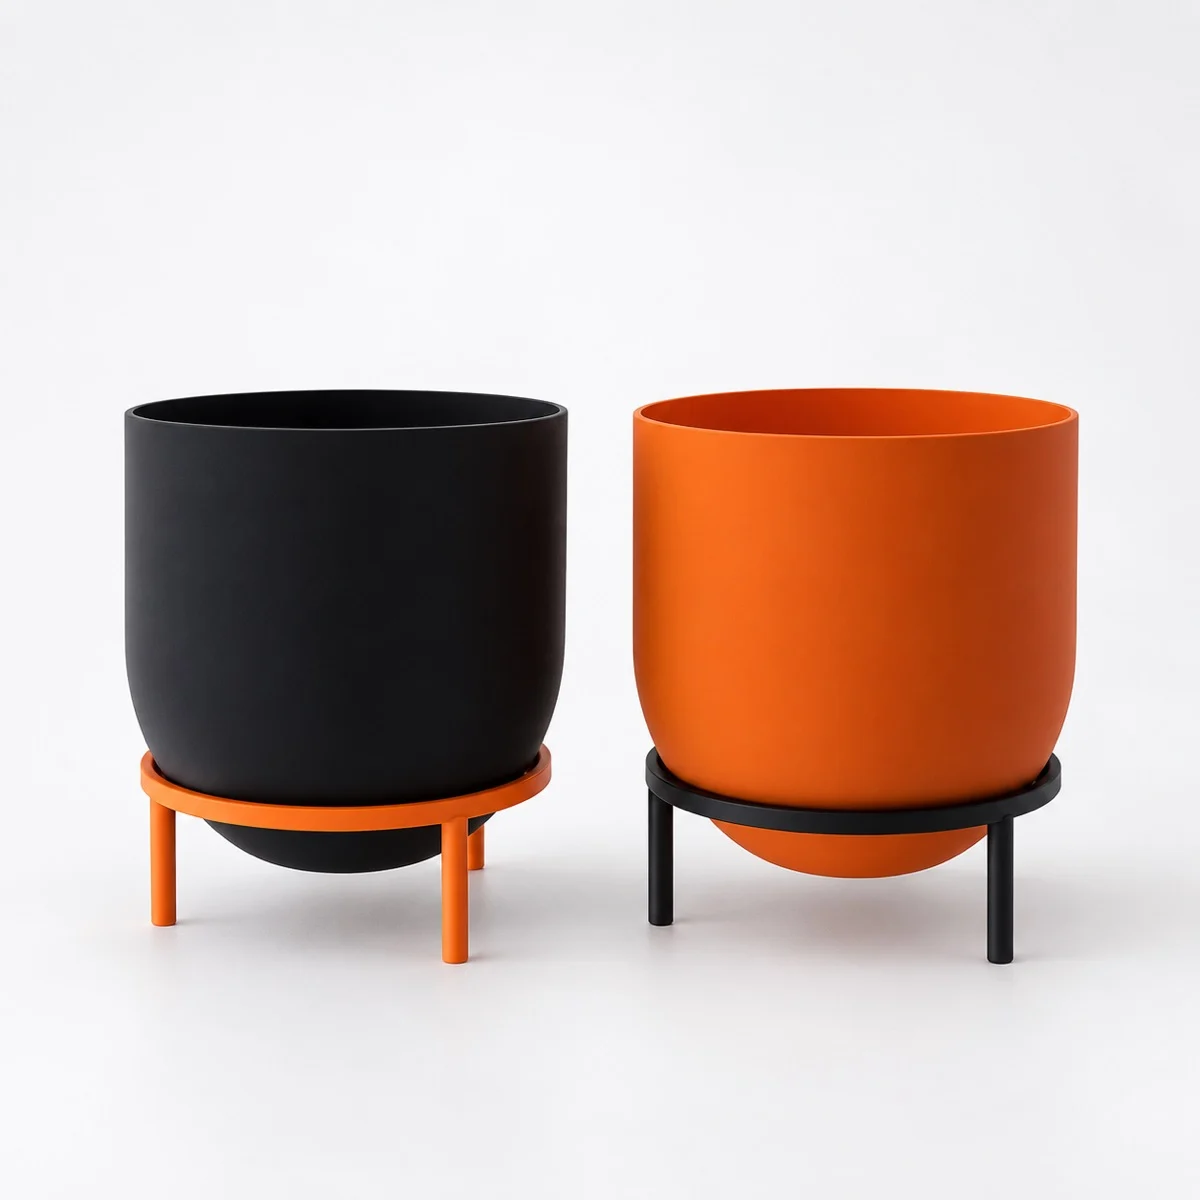
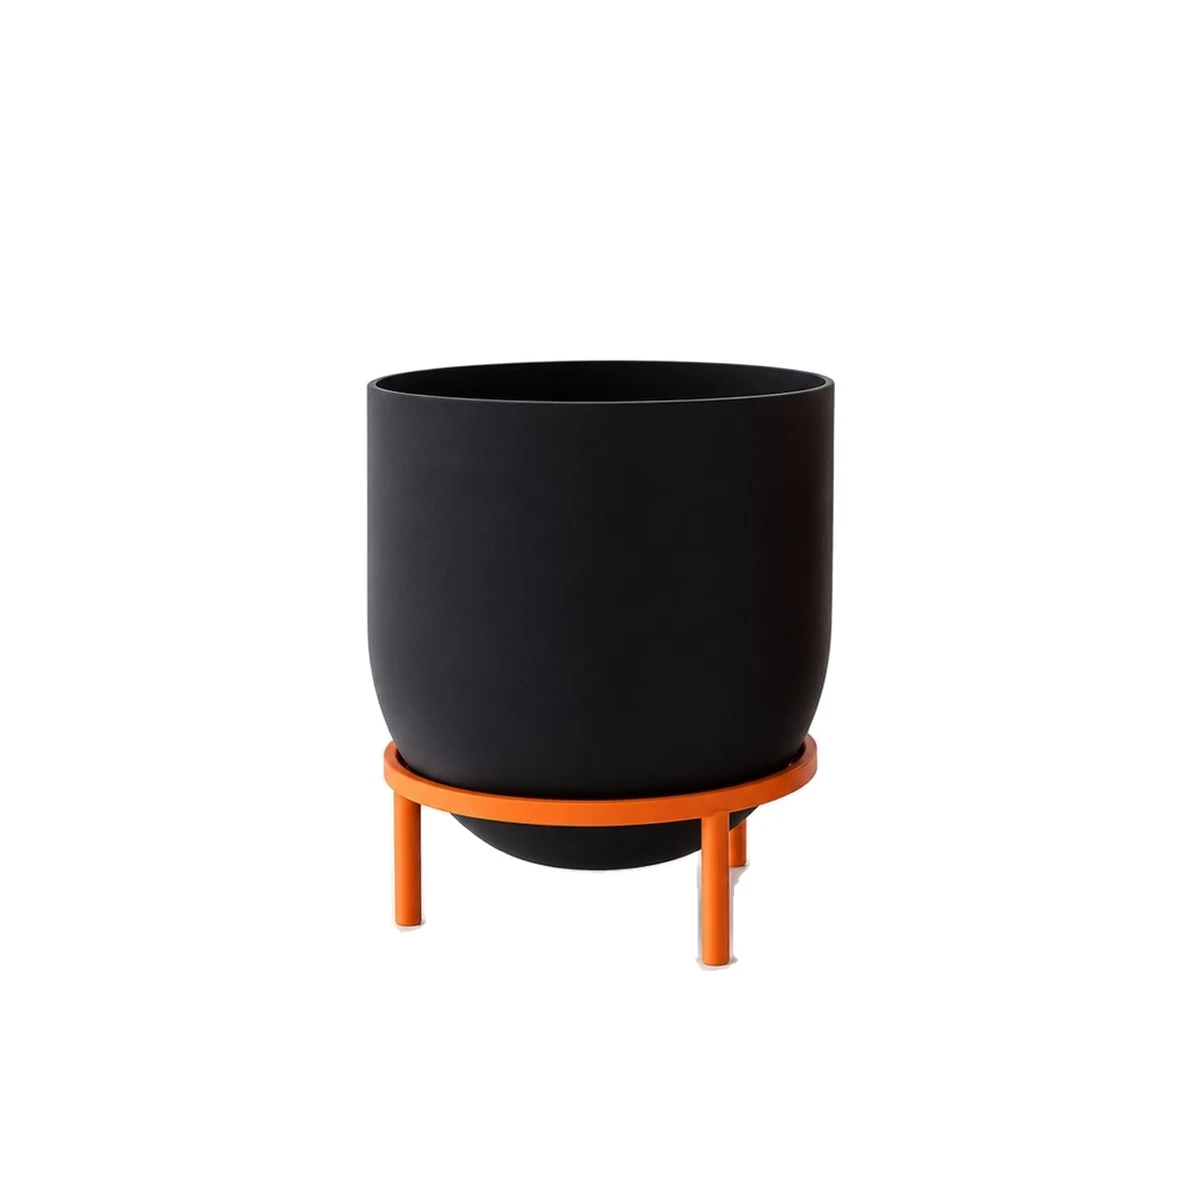
丸鉢スタンドセット: 色切替画像4本の同一ファイルを修正＋LPに使用イメージを追加
- product-marupot-stand-{black,orange,lightgray}.webp が4本とも同一(db07207f)だった問題を修正。
  3配色スタジオ実写 product-marupot-3variations.jpg から各1体を切り出し、
  base.webp と同じ構図(1200x1200・被写体高639px)に揃えて再生成。
- white はこの商品に存在しない配色なので base と同じ単体カットを割り当て(新規撮影はしない)。
- Product 型に usageImage を追加し、商品詳細のヒーロー直下に「使用イメージ」1枚＋キャプションを描画。
  marupot-stand に product-marupot-leaf.webp を設定(EC店長 #7590)。

diff --git a/app/lib/products.ts b/app/lib/products.ts
@@ -50,6 +50,18 @@ export type Product = {
     width: number;
     height: number;
   };
+  /**
+   * 使用イメージ（実際に植物を入れて飾った写真）。
+   * 2026-10-10 EC店長#7590: ヒーローが商品単体カットになり「何に使う物か」がLP上で分からなくなるため、
+   * ヒーロー直下に1枚＋キャプションで補う。白背景の物撮りではなく、暮らしの中のカットだけを入れる。
+   */
+  usageImage?: {
+    src: string;
+    alt: string;
+    caption?: string;
+    width: number;
+    height: number;
+  };
   /** 相性のよい植物 */
   plants: string[];
   /** インテリア文脈での使いどころ */
@@ -498,6 +510,14 @@ export const PRODUCTS: Product[] = [
     ogWidth: 1200,
     ogHeight: 630,
     ogImageSquare: "/products/product-marupot-stand-og.jpg",
+    // 2026-10-10 EC店長#7590: ヒーローが鉢単体なので、使うところが分かるカットをLPに1枚足す
+    usageImage: {
+      src: "/products/product-marupot-leaf.webp",
+      alt: "オレンジ鉢とブラック鉢の丸鉢スタンドセットを棚に並べ、PLANTS POLE \"3つの六角形\"でつる性植物を仕立てたところ",
+      caption: "3.5号のビニールポットをそのまま入れて、棚やデスクの上に。写真はオレンジ鉢×ブラックスタンドとブラック鉢×オレンジスタンドの2点に、PLANTS POLE \"3つの六角形\"を合わせたところです。",
+      width: 640,
+      height: 640,
+    },
     baseUrl: `${SHOP}/items/161140229`,
     summary:
       "丸みのある鉢カバーと3本脚スタンドのセット。3.5号のビニールポットがそのまま入り、植え替えずに飾れます。PLA樹脂・3Dプリント製、鉢とスタンドは別パーツで、オレンジ鉢×ブラックスタンド／ブラック鉢×オレンジスタンド／ライトグレー鉢×ブラックスタンドの3種から選べます。",

diff --git a/app/products/[slug]/page.tsx b/app/products/[slug]/page.tsx
@@ -191,6 +191,27 @@ export default async function ProductPage({ params }: { params: Promise<{ slug: 
           </div>
         </div>
 
+        {/* 2026-10-10 SEO #7590(EC店長): ヒーローが商品単体カットだと「何に使う物か」がLP上で1枚も分からない。
+            ヒーロー直下に使用イメージ1枚＋キャプションで補う（サイズ図と同じく遅延読み込み・LCPには載せない） */}
+        {p.usageImage && (
+          <section className="mt-20">
+            <h2 className="text-base font-bold">使用イメージ</h2>
+            <div className="mt-6 max-w-md">
+              <Image
+                src={p.usageImage.src}
+                alt={p.usageImage.alt}
+                width={p.usageImage.width}
+                height={p.usageImage.height}
+                sizes="(min-width: 768px) 28rem, 100vw"
+                className="w-full h-auto"
+              />
+              {p.usageImage.caption && (
+                <p className="mt-3 text-[13px] leading-relaxed text-gray-500">{p.usageImage.caption}</p>
+              )}
+            </div>
+          </section>
+        )}
+
         {/* 2026-10-10 SEO #6730: 数字だけでは大きさが伝わらないので実寸カットでも示す。
             ファーストビューより下なので next/image の既定どおり遅延読み込み（priority は付けない＝LCPに影響させない） */}
         {p.sizeImage && (
